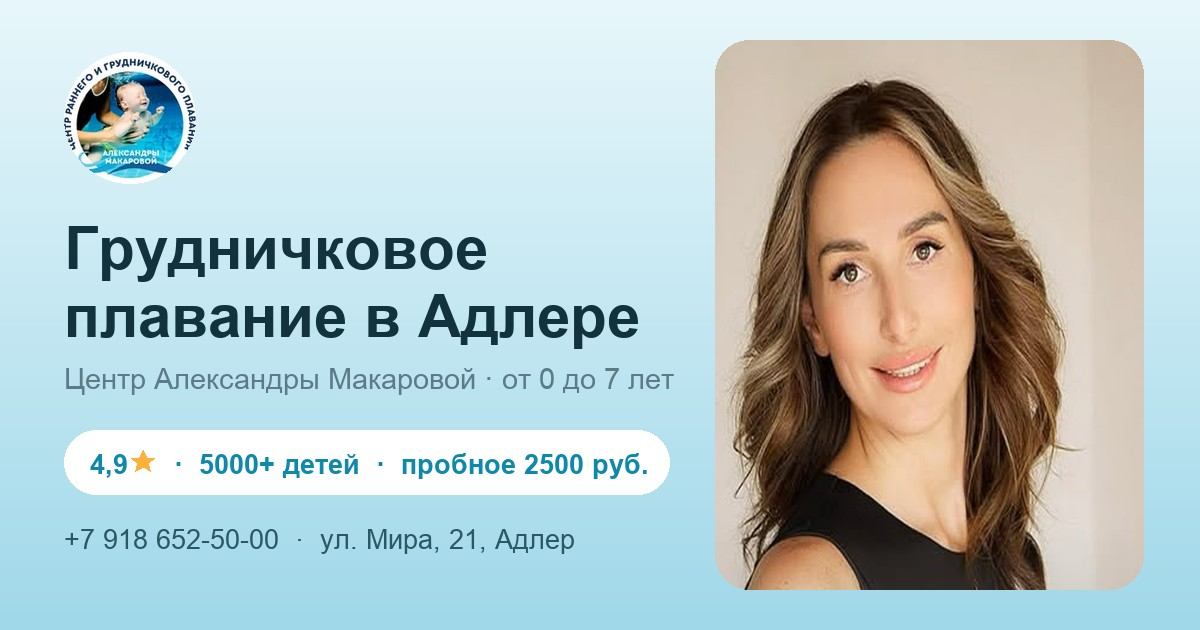
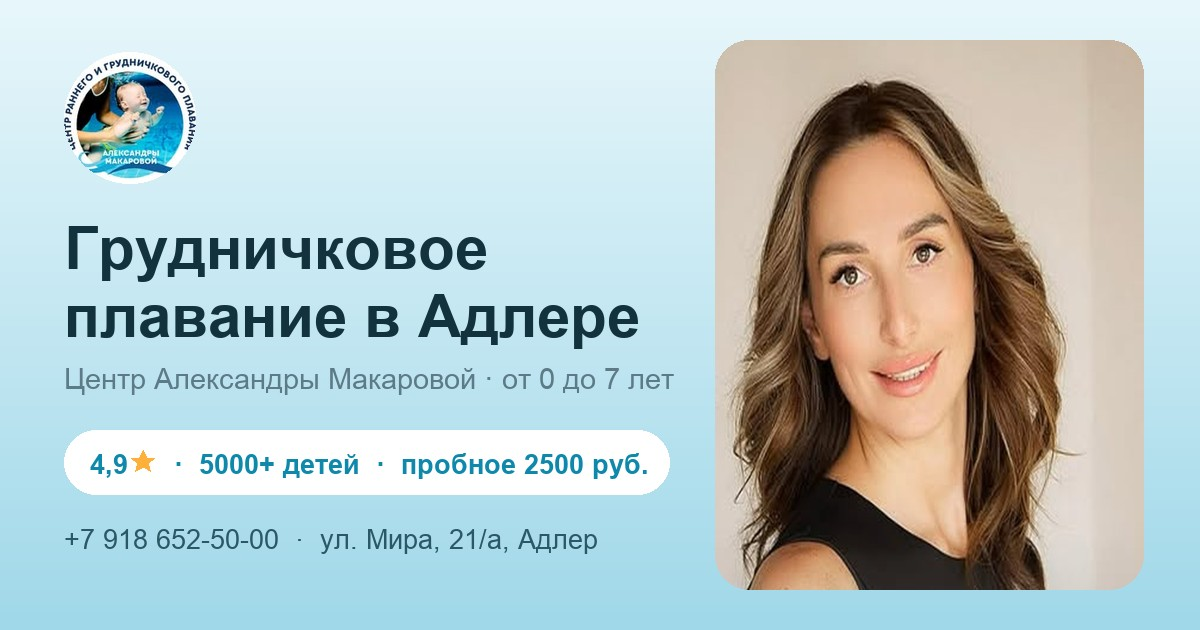
Точный адрес: ул. Мира, 21/а

diff --git a/index.html b/index.html
@@ -317,7 +317,7 @@ footer a{color:var(--aqua);text-decoration:none}
         <a class="btn btn-primary" href="https://max.ru/u/f9LHodD0cOLBpSCNFxNvDHPPr1ZwuQQfxLt-Y0Nf55uvILuvKkMdiBUb67w" target="_blank" rel="noopener">Записаться на пробное · 2500 ₽</a>
         <a class="btn btn-ghost" href="tel:+79186525000">Позвонить</a>
       </div>
-      <p class="hero-note">Ежедневно 09:00–20:00, по предварительной записи · ул. Мира, 21, Адлер</p>
+      <p class="hero-note">Ежедневно 09:00–20:00, по предварительной записи · ул. Мира, 21/а, Адлер</p>
     </div>
     <div class="hero-art">
       <div class="photo-card">
@@ -520,7 +520,7 @@ footer a{color:var(--aqua);text-decoration:none}
       <h2>Ждём вас в Адлере</h2>
       <p style="color:#a8d5e4;margin-top:12px;font-size:17px">Запишитесь на пробное занятие · подберём удобное время и расскажем, как всё пройдёт.</p>
       <div class="c-grid">
-        <div class="c-item"><span class="ci">📍</span><div><b>Адрес</b><a href="https://yandex.ru/maps/org/tsentr_rannego_i_grudnichkovogo_plavaniya/95135943008/" target="_blank" rel="noopener">Сочи, Адлер, ул. Мира, 21</a></div></div>
+        <div class="c-item"><span class="ci">📍</span><div><b>Адрес</b><a href="https://yandex.ru/maps/org/tsentr_rannego_i_grudnichkovogo_plavaniya/95135943008/" target="_blank" rel="noopener">Сочи, Адлер, ул. Мира, 21/а</a></div></div>
         <div class="c-item"><span class="ci">📞</span><div><b>Телефон</b><a href="tel:+79186525000">+7 918 652-50-00</a></div></div>
         <div class="c-item"><span class="ci">🕘</span><div><b>Режим работы</b><span>Ежедневно 09:00–20:00, по записи</span></div></div>
         <div class="c-item"><span class="ci">💬</span><div><b>Мессенджеры</b><a href="https://max.ru/u/f9LHodD0cOLBpSCNFxNvDHPPr1ZwuQQfxLt-Y0Nf55uvILuvKkMdiBUb67w" target="_blank" rel="noopener">MAX</a> · <a href="https://t.me/Macarova_center" target="_blank" rel="noopener">Telegram</a></div></div>
